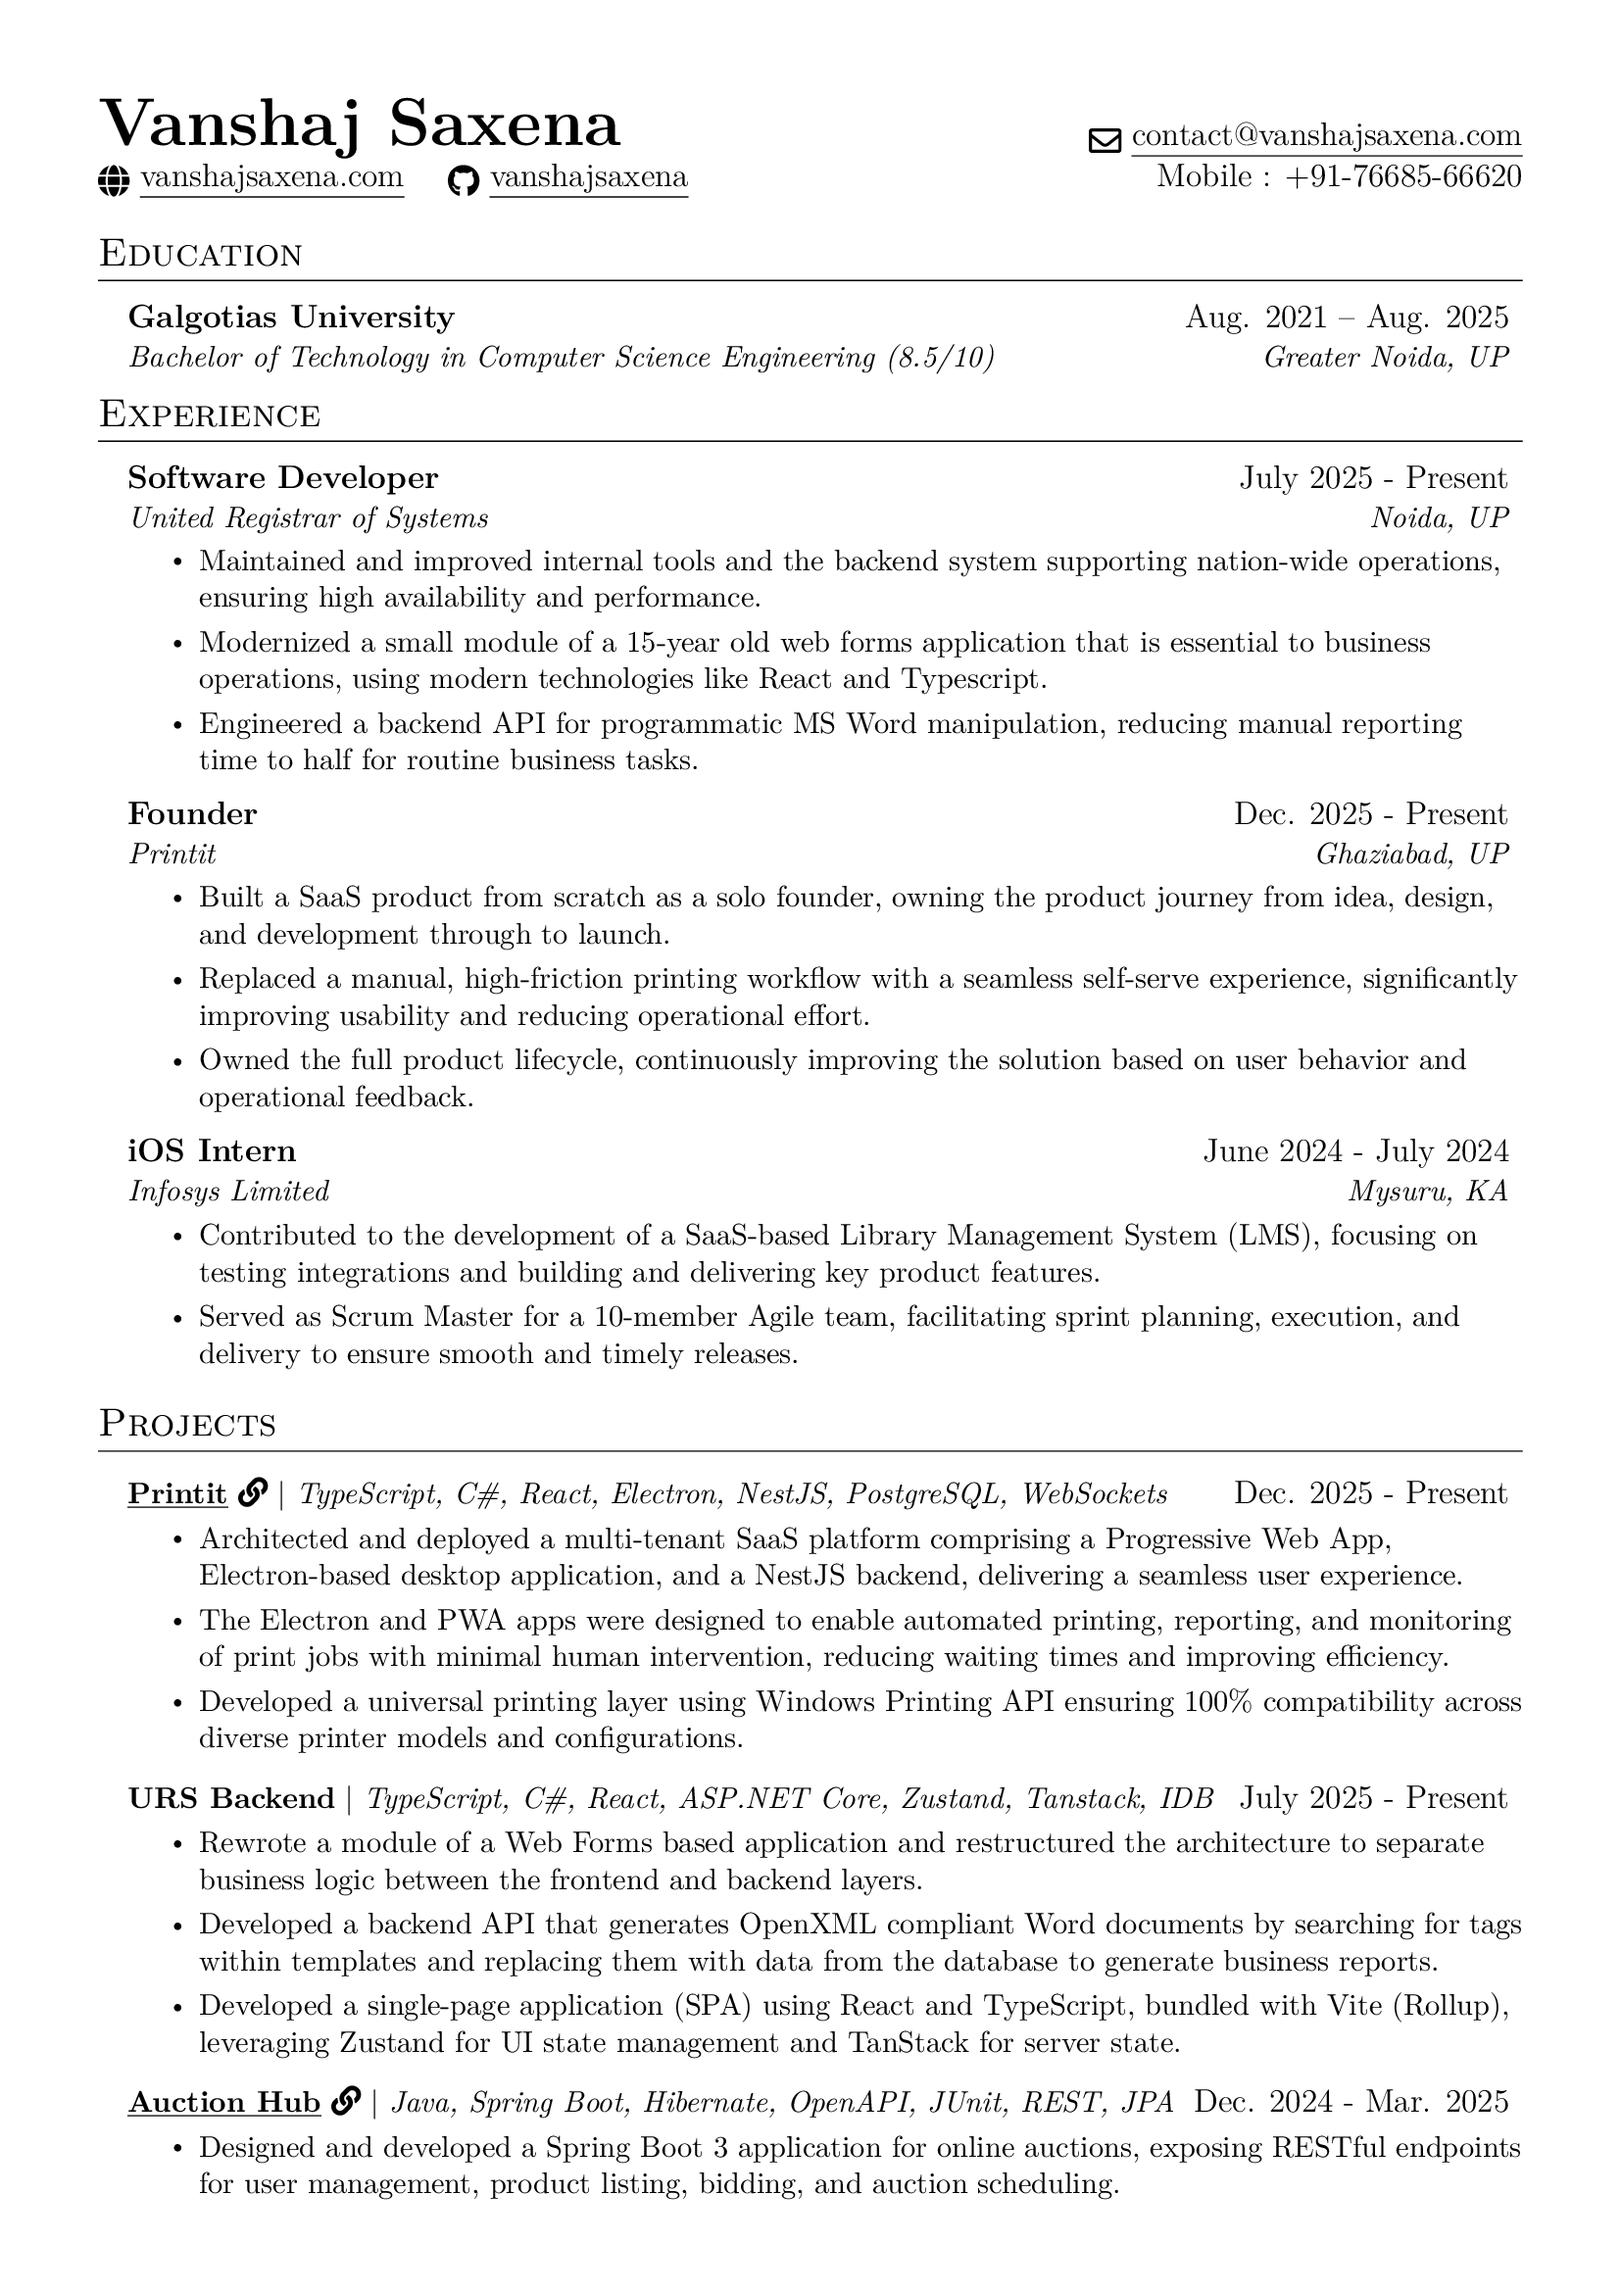
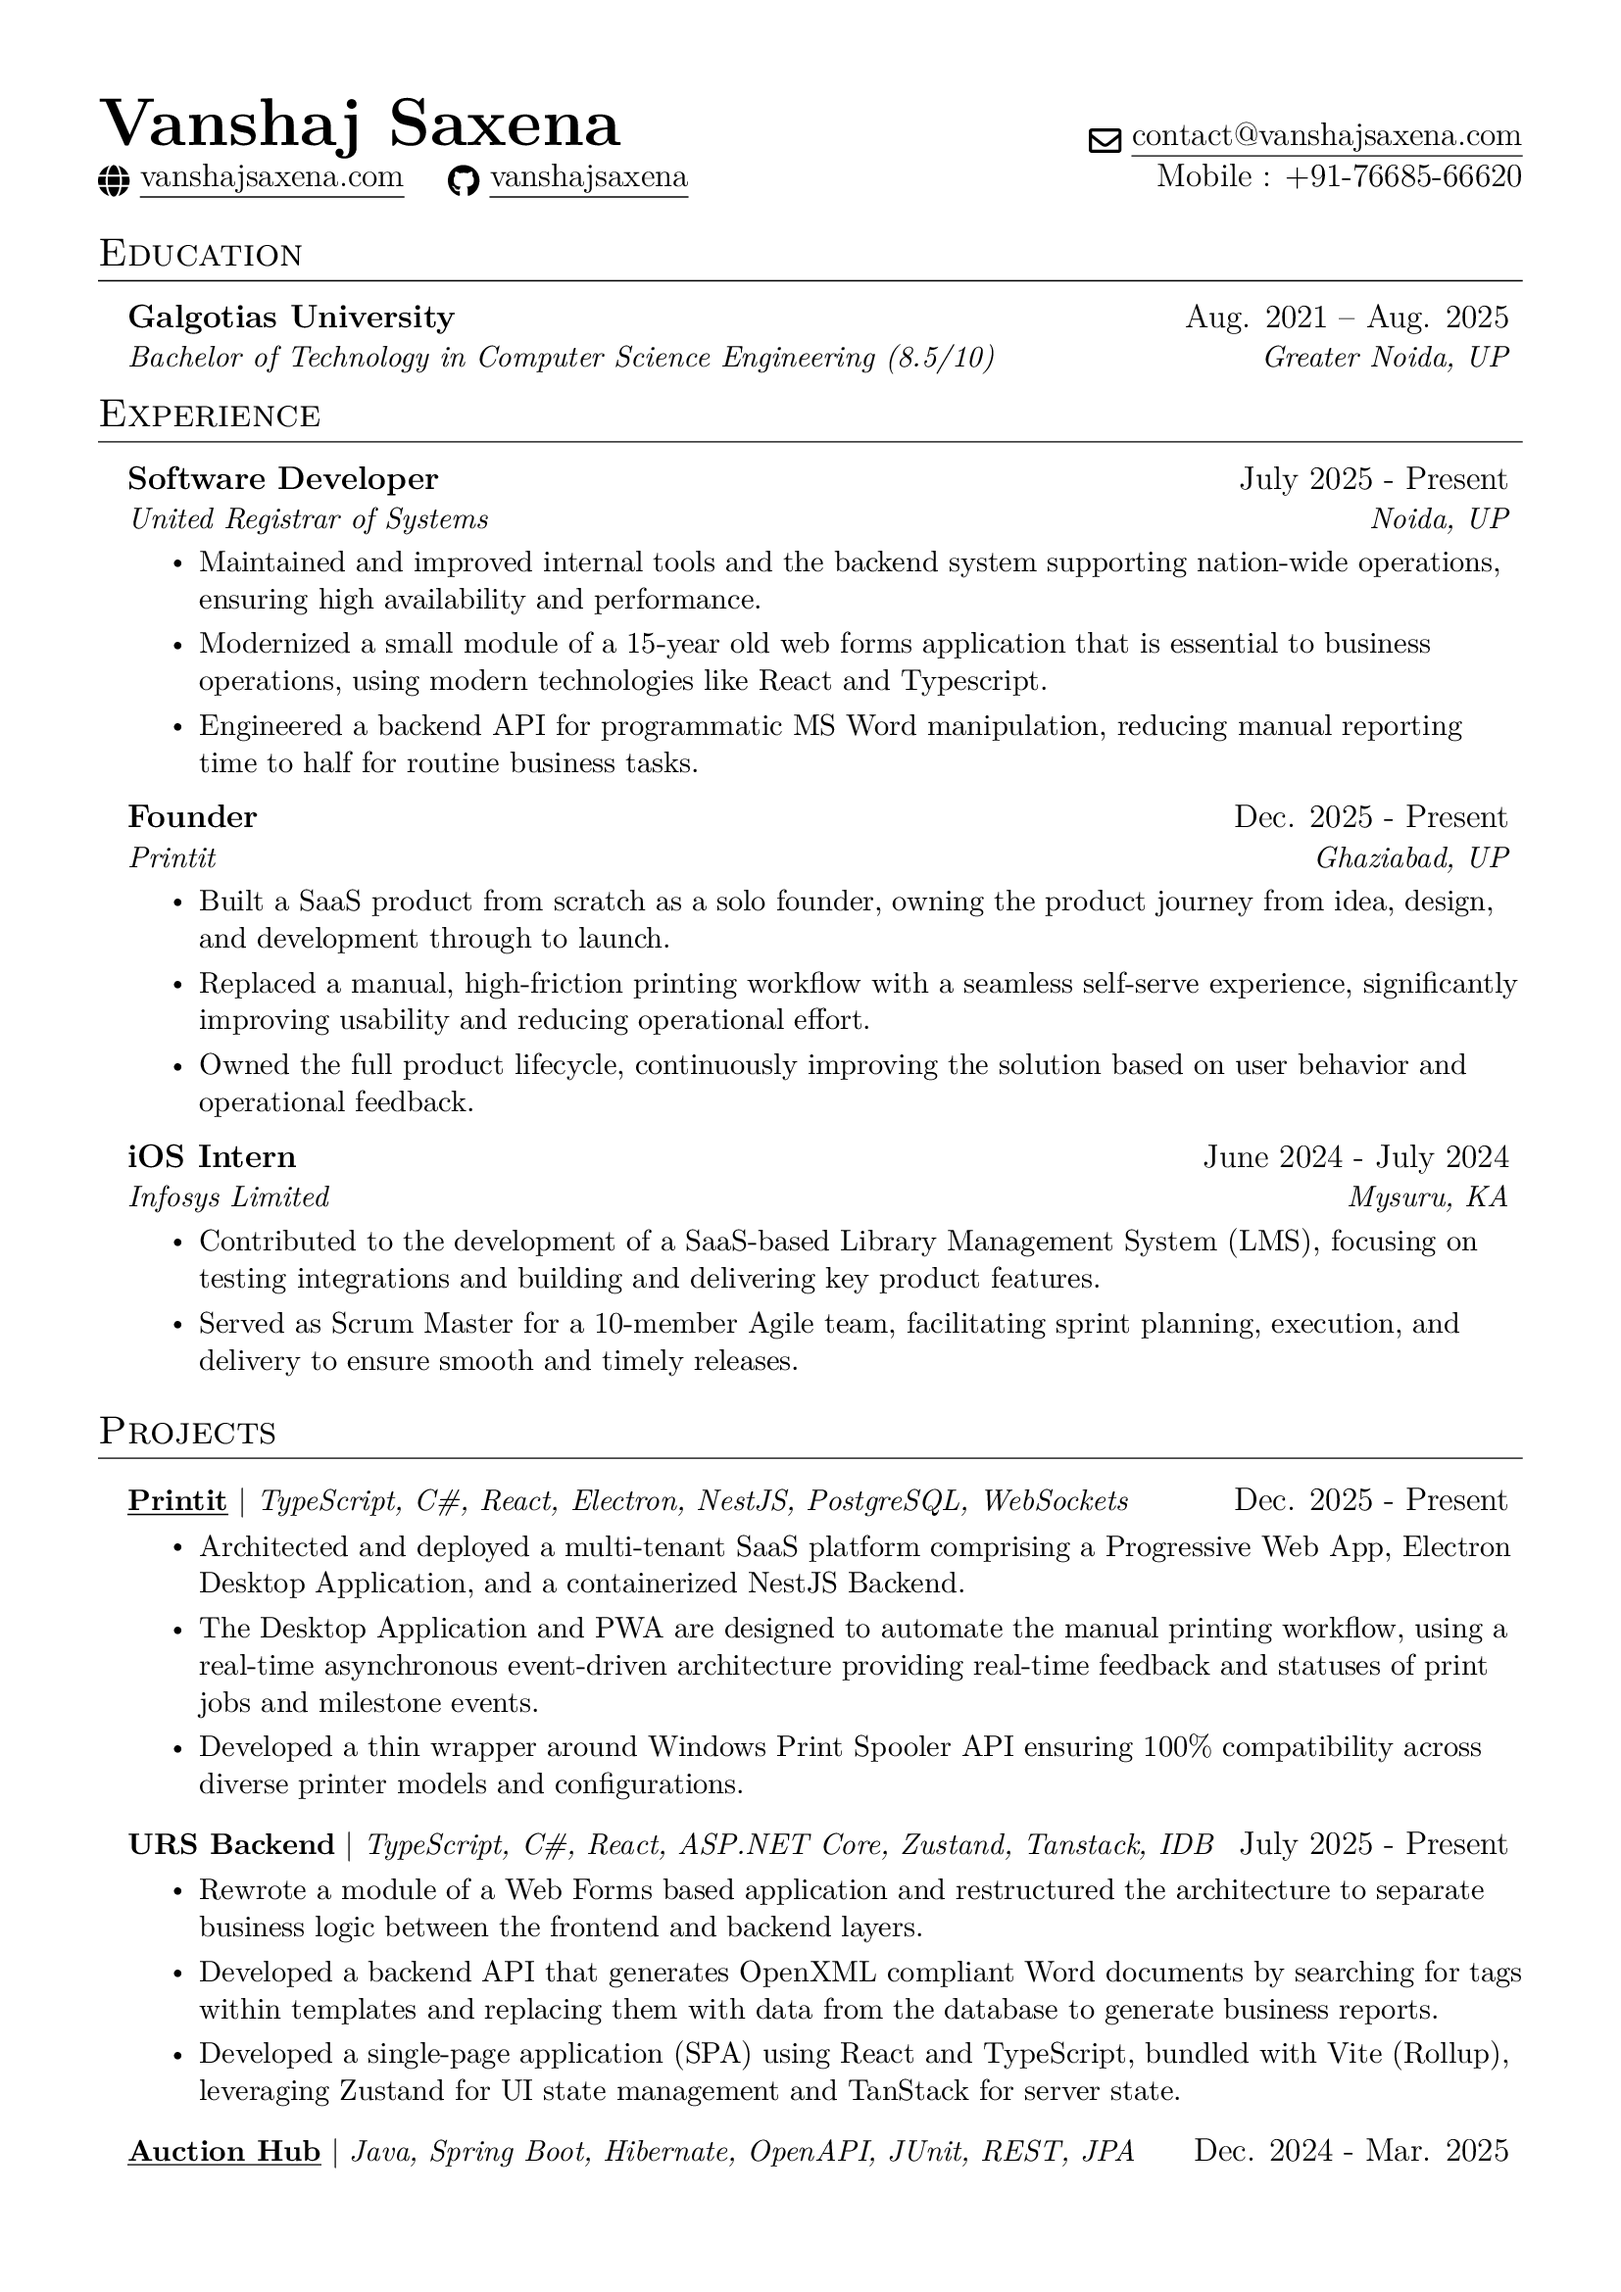
fix: improve bullets points under projects and experience section

diff --git a/Resume - Vanshaj Saxena.tex b/Resume - Vanshaj Saxena.tex
@@ -147,7 +147,7 @@
       {Printit}{Ghaziabad, UP}
       \resumeItemListStart
         \resumeItem{Built a SaaS product from scratch as a solo founder, owning the product journey from idea, design, and development through to launch.}
-        \resumeItem{Replaced a manual, high-friction printing workflow with a seamless self-serve experience, significantly improving usability and reducing operational effort.}
+        \resumeItem{Replaced a manual, high-friction printing workflow with a streamlined self-serve experience, reducing operational overhead, minimizing user effort, and improving overall workflow efficiency and usability.}
         \resumeItem{Owned the full product lifecycle, continuously improving the solution based on user behavior and operational feedback.}
       \resumeItemListEnd
     \resumeSubheading
@@ -173,29 +173,30 @@
 \section{Projects}
   \resumeSubHeadingListStart
     \resumeProjectHeading
-      {\textbf{\underline{\href{https://printit.ink}{Printit}}}~\faLink [solid] $|$ \emph{TypeScript, C\#, React, Electron, NestJS, PostgreSQL, WebSockets}}{Dec. 2025 - Present}
+    {\textbf{\underline{\href{https://printit.ink}{Printit}}} $|$ \emph{printit.ink} $|$ \emph{TypeScript, C\#, React, Electron, NestJS, PostgreSQL, WebSockets}}{Dec. 2025 - Present}
         \resumeItemListStart
-          \resumeItem{Architected and deployed a multi-tenant SaaS platform comprising a Progressive Web App, Electron-based desktop application, and a NestJS backend, delivering a seamless user experience.}
-          \resumeItem{The Electron and PWA apps were designed to enable automated printing, reporting, and monitoring of print jobs with minimal human intervention, reducing waiting times and improving efficiency.}
-          \resumeItem{Developed a universal printing layer using Windows Printing API ensuring 100\% compatibility across diverse printer models and configurations.}
+          \resumeItem{Architected and deployed a multi-tenant SaaS platform integrating a Progressive Web App, an Electron-based desktop client, and a containerized NestJS backend, with tenant isolation, scalable service orchestration, and a unified API layer supporting cross-platform clients.}
+          \resumeItem{Engineered the Desktop Application and PWA to automate manual printing workflows using an asynchronous, event-driven architecture, enabling non-blocking job orchestration and real-time status propagation of print job lifecycle events.}
+          \resumeItem{Designed and implemented a thin abstraction layer over the Windows Print Spooler API, normalizing device-specific behaviors and handling driver inconsistencies to provide a consistent, fault-tolerant printing interface.
+}
         \resumeItemListEnd
     \resumeProjectHeading
       {\textbf{{URS Backend}} $|$ \emph{TypeScript, C\#, React, ASP.NET Core, Zustand, Tanstack, IDB}}{July 2025 - Present}
         \resumeItemListStart
-          \resumeItem{Rewrote a module of a Web Forms based application and restructured the architecture to separate business logic between the frontend and backend layers.}
-          \resumeItem{Developed a backend API that generates OpenXML compliant Word documents by searching for tags within templates and replacing them with data from the database to generate business reports.}
-          \resumeItem{Developed a single-page application (SPA) using React and TypeScript, bundled with Vite (Rollup), leveraging Zustand for UI state management and TanStack for server state.}
+          \resumeItem{Refactored a legacy Web Forms module by decoupling business logic from the presentation layer, introducing a clear client-server separation that improved maintainability, testability, and scalability of the application architecture.}
+          \resumeItem{Developed a backend API for dynamic generation of OpenXML-compliant Word documents, implementing a template-driven engine that parses and replaces tagged placeholders with database-backed data to produce structured, automated business reports.}
+          \resumeItem{Developed a single-page application (SPA) using React and TypeScript, optimized with Vite (Rollup) for fast builds and HMR, leveraging Zustand for lightweight client-side state management and TanStack Query for efficient server-state synchronization, caching, and data fetching.}
         \resumeItemListEnd
     \resumeProjectHeading
-      {\textbf{\underline{\href{https://github.com/VanshajSaxena/auction-system}{Auction Hub}}}~\faLink [solid] $|$ \emph{Java, Spring Boot, Hibernate, OpenAPI, JUnit, REST, JPA }}{Dec. 2024 - Mar. 2025}
+      {\textbf{\underline{\href{https://github.com/VanshajSaxena/auction-system}{Auction Hub}}} $|$ \emph{Java, Spring Boot, Hibernate, OpenAPI, JUnit, REST, JPA}}{Dec. 2024 - Mar. 2025}
         \resumeItemListStart
           \resumeItem{Designed and developed a Spring Boot 3 application for online auctions, exposing RESTful endpoints for user management, product listing, bidding, and auction scheduling.}
           \resumeItem{Created a secure platform with the use of Spring Security and JWT based authorization, enforcing role-based access control and stateless authentication.}
         \resumeItemListEnd
     \resumeProjectHeading
-    {\textbf{\underline{\href{https://github.com/VanshajSaxena/LMS_User}{Fable}}}~\faLink [solid] $|$ \emph{Swift, SwiftUI, Firebase/Firestore, Git}}{June 2024 - July 2024}
+    {\textbf{\underline{\href{https://github.com/VanshajSaxena/LMS_User}{Fable}}} $|$ \emph{Swift, SwiftUI, Firebase/Firestore, Git}}{June 2024 - July 2024}
         \resumeItemListStart
-          \resumeItem{Contributed to building a multi-tenant SaaS application using SwiftUI, integrating Firebase Authentication and Cloud Firestore for secure user management and real-time data handling.}
+          \resumeItem{Contributed to the development of a multi-tenant SaaS application using SwiftUI, integrating Firebase Authentication and Cloud Firestore to implement secure user authentication, tenant-aware access control, and real-time data synchronization.}
         \resumeItemListEnd
   \resumeSubHeadingListEnd
 
